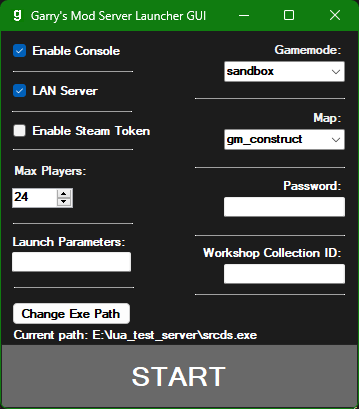
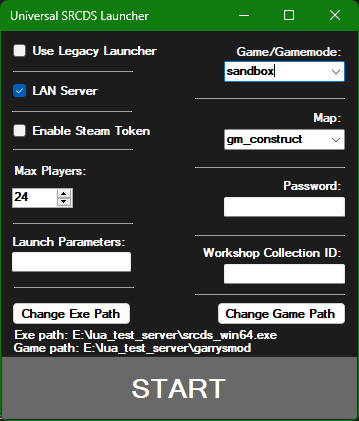
Update readme and reference image

diff --git a/README.md b/README.md
@@ -1,20 +1,26 @@
-# Garry's Mod Server Launcher GUI With Console Support
- This is a replacement launcher for people who want to run their Gmod server in console mode while also wanting the full launch options that the normal GUI provides.
+# Universal Source Dedicated Server Launcher
+ This is a replacement launcher compatible with any GoldSrc, Source, or Source 2 dedicated server that allows you to launch your servers with additional options, without having to use a command line or manually type out parameters for a shortcut.
 
 ![](https://raw.githubusercontent.com/LambdaGaming/GMod-Server-Launcher-Console/master/reference.PNG)
 
 # Features:
-- Prompts the user to select the file path that contains the server exe if the path is not found.
-- Console mode toggle. Disables all other options if disabled since the main server GUI will take over at that point and ignore all launch arguments.
-- Map selection that gets the names of maps inside the garrymod/maps server folder. The map name can also be manually entered into the text box if the map is in a different location.
-- Support for the new Steam server tokens requirement so the server isn't stuck at the bottom of the server browser
-- Gamemode selection that gets the names of gamemodes inside the garrysmod/gamemodes server folder
-- LAN mode toggle
-- Max players selection
-- Password option
-- Steam workshop collection option
-- Option for additional launch parameters
-- All settings mentioned above are saved when the program closes and will be automatically set when the program is reopened.
+- Option to use legacy launcher. If this is enabled, most other options will be disabled since the legacy launcher will ignore them.
+- Map selection (`+map`)
+  - Gets the names of maps inside the server's map folder. The map name can also be manually entered into the text box if the map is in a different location.
+- Game/Gamemode selection (`+gamemode` or `-game`)
+  - For Garry's Mod servers, the launcher will automatically update the list of gamemodes found in the server's gamemodes folder
+  - For s&box servers, the box will be filled with a placeholder gamemode that can be manually changed
+  - For all other games, it will use the name of the selected game folder
+- LAN mode toggle (`+sv_lan`)
+- Max players slider (`+maxplayers`)
+- Password option (`+sv_password`)
+- Steam token input (`+sv_setsteamaccount`)
+  - Certain games including Garry's Mod and CS:GO require the server to be registered with Steam in this way for it to show up in the server browser
+- Steam workshop collection option (`+host_workshop_collection`)
+- Input for additional launch parameters
+- The `+r_hunkalloclightmaps` parameter is automatically set to 0
+  - Setting this to 0 prevents crashes when loading complex maps. Some games have it set to 1 by default.
+- All settings are saved when the program closes and will be automatically set when the program is reopened.
 
 # Working with more than one server:
  If you need this program to run more than one server, you can copy the exe and rename it to something else to generate a new config.
